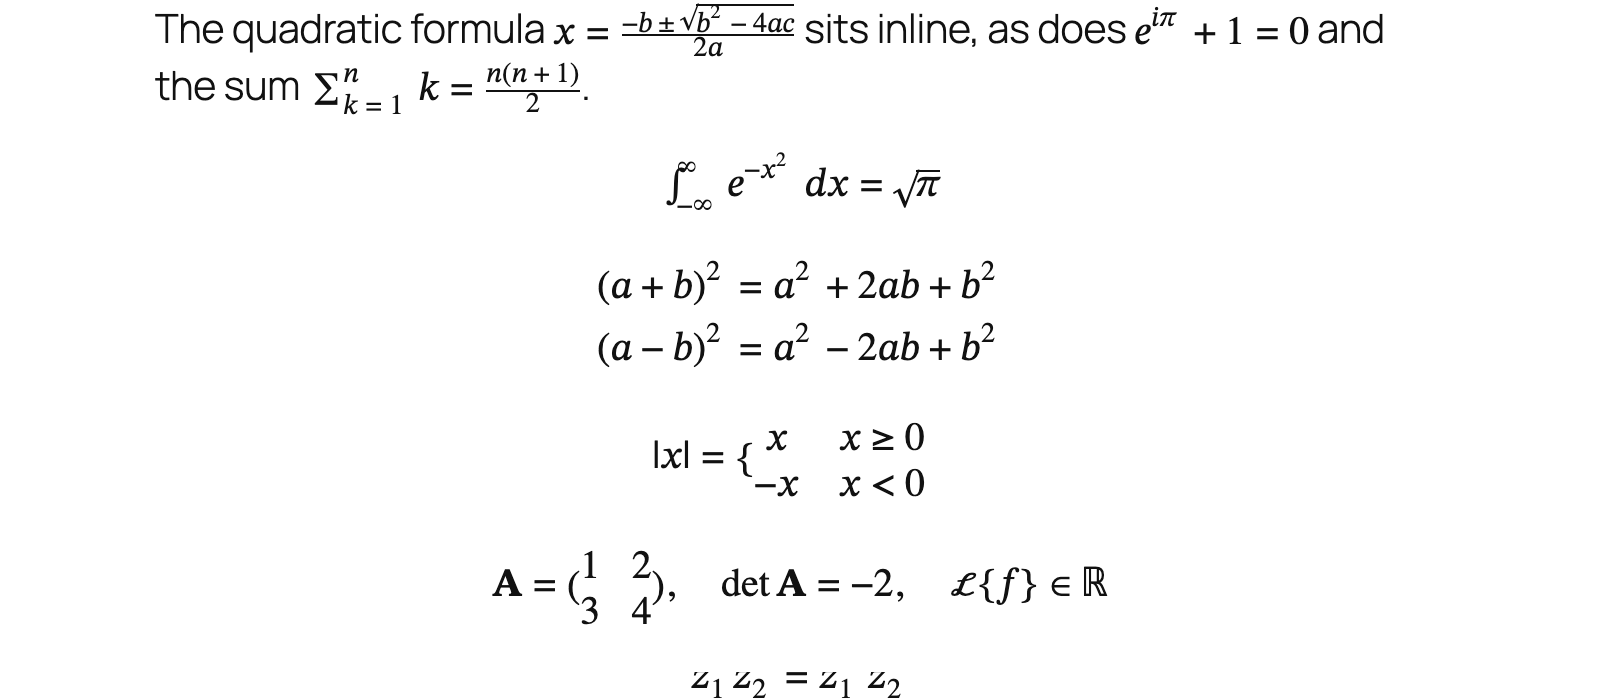
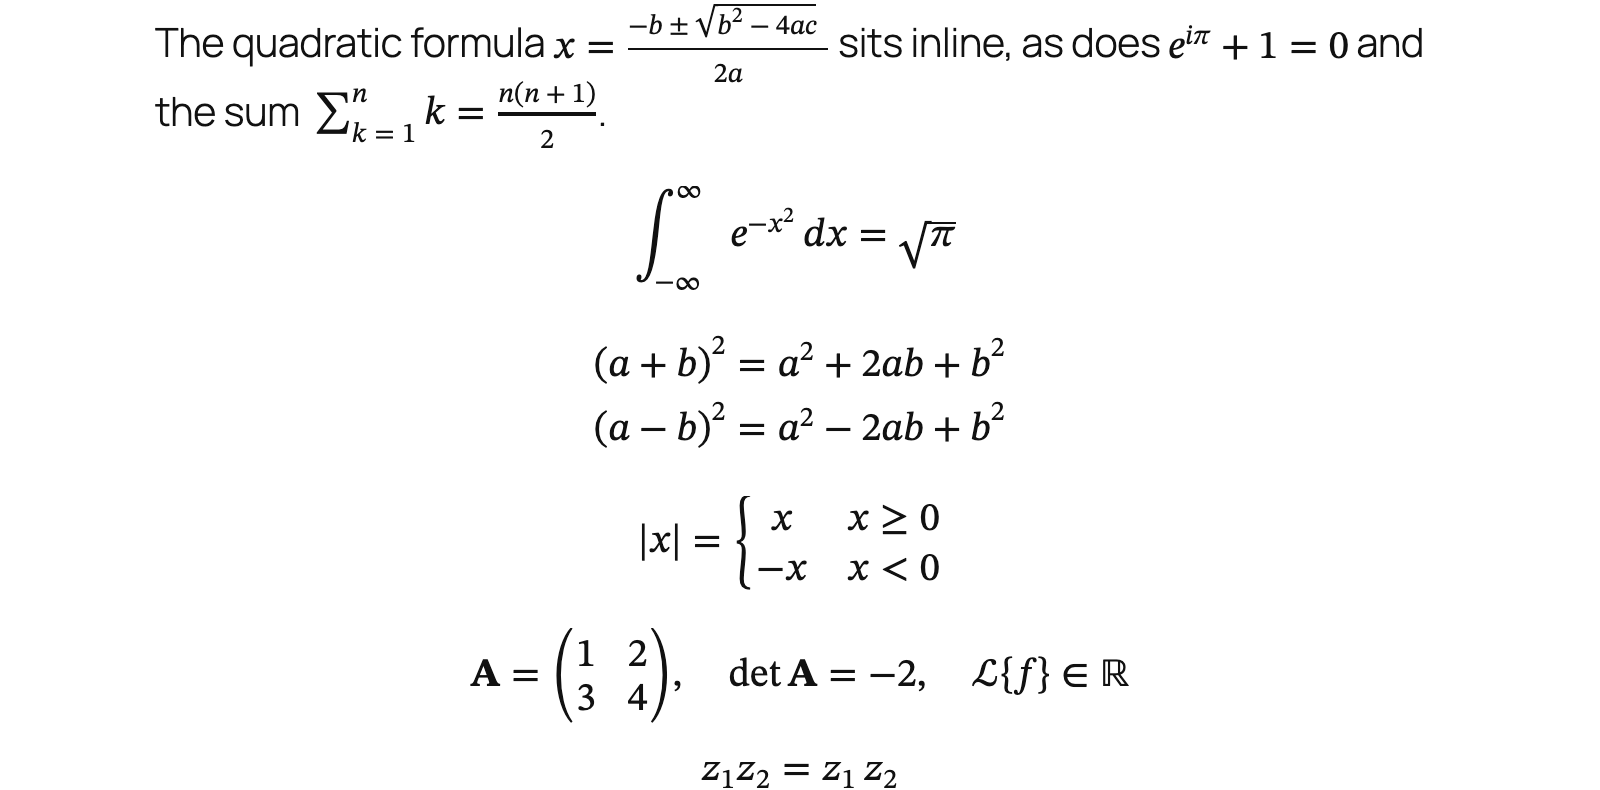
Run the full Chromium build, whose MathML layout uses the font's MATH table

diff --git a/playwright.config.js b/playwright.config.js
@@ -34,7 +34,13 @@ module.exports = defineConfig( {
 		? { grep: /@screenshots/ }
 		: { grepInvert: /@screenshots/ } ),
 	projects: [
-		{ name: 'chromium', use: { ...devices[ 'Desktop Chrome' ] } },
+		{
+			name: 'chromium',
+			// The full build: the headless shell Playwright runs by default
+			// lays MathML out without the font's MATH table, so stretchy
+			// delimiters and limits come out wrong.
+			use: { ...devices[ 'Desktop Chrome' ], channel: 'chromium' },
+		},
 		{ name: 'webkit', use: { ...devices[ 'Desktop Safari' ] } },
 		{
 			name: 'firefox',
